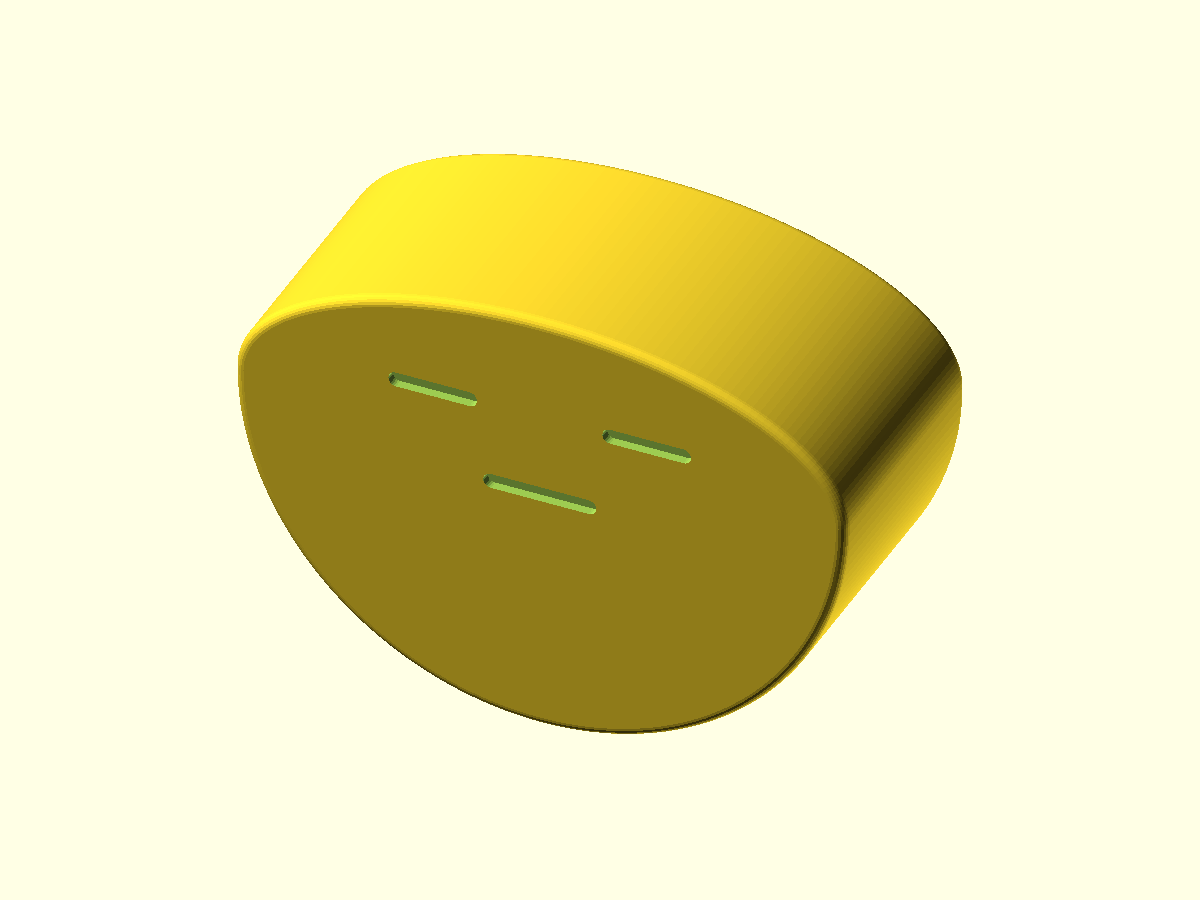
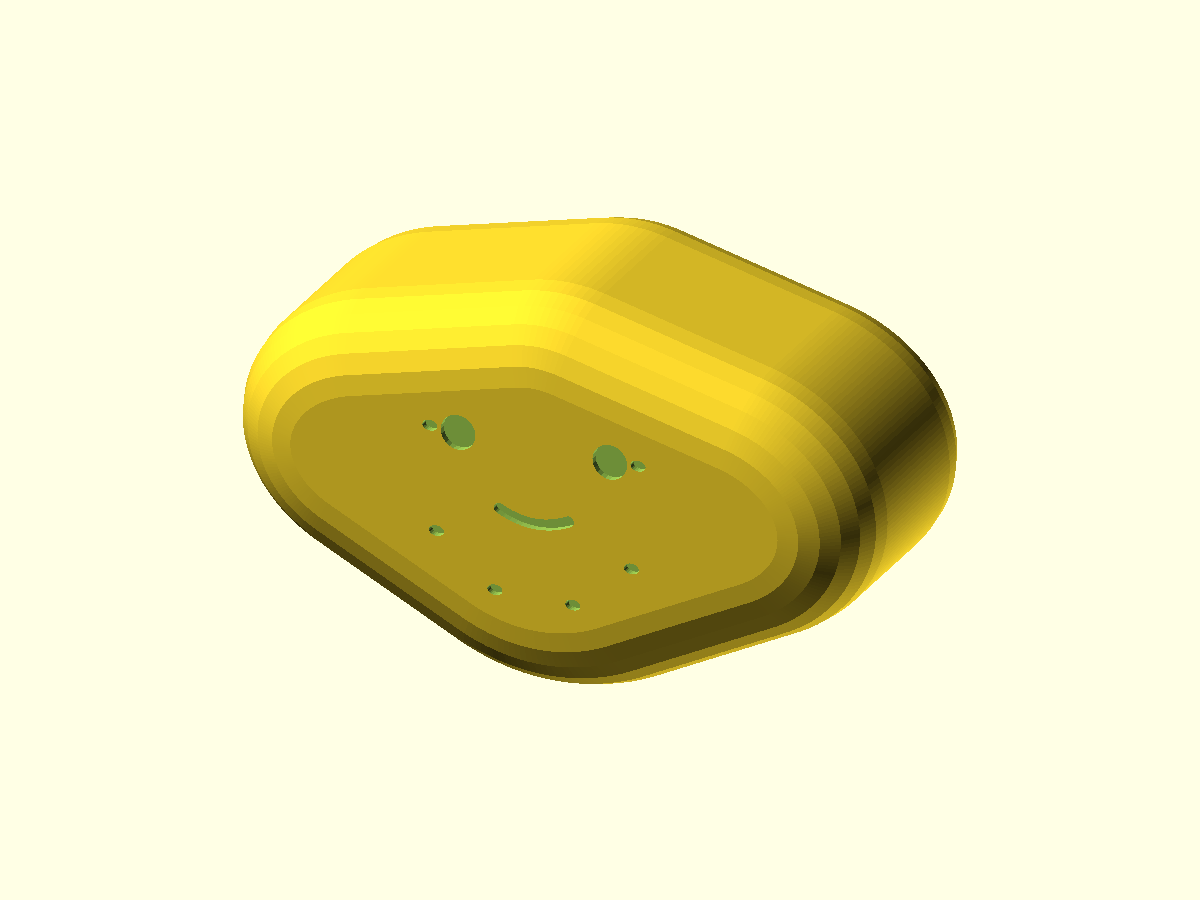
fix: give the wobble potato a fuller oval shape

Changed region(s): [[0.185, 0.1556, 0.8017, 0.84]]

diff --git a/projects/wobble-potato/README.md b/projects/wobble-potato/README.md
@@ -1,25 +1,26 @@
 # Wobble potato
 
-A squat, unimpressed potato that aims to rock in one plane after a gentle nudge. One rigid print, no ballast or moving joints. Default dimensions are approximately 52 × 38 × 22 mm. These are prototype assumptions, not a measured fit or proven balance recipe.
+An oval potato character that aims to rock in one plane after a gentle nudge. One rigid print, no ballast or moving joints. Default dimensions are approximately 76.4 × 47 × 34 mm. These are prototype assumptions, not a measured fit or proven balance recipe.
 
 ![OpenSCAD preview](preview.png)
 
 ## Source and exports
 
-`wobble-potato.scad` has a circular lower belly and a short half-elliptical cap. The cap width follows the belly diameter so their join stays tangent. Shallow recessed strokes form the eyes and mouth. Millimeter parameters are at the top.
+`wobble-potato.scad` has a central circular lower belly, a gently uneven cap and fuller oval shoulders. The shoulders widen the silhouette into a potato shape while leaving the central circular belly as the contact surface near upright. Round recessed eyes, a curved mouth and small skin dimples decorate the broad faces. Millimeter parameters are at the top.
 
 | Parameter | Default | Purpose |
 | --- | --- | --- |
 | `belly_radius` | 26 | Circular contact radius and half-width |
-| `cap_height` | 12 | Height above the arc center, less than the belly radius |
-| `body_width` | 22 | Width perpendicular to rocking |
-| `edge_round` | 0.8 | Approximate broad-face edge fillet; zero leaves square edges |
+| `cap_height` | 20 | Central cap height before its small top variation |
+| `cap_lump` | 0.05 | Gentle cap variation; range 0–0.05 |
+| `body_width` | 34 | Width perpendicular to rocking |
+| `edge_round` | 9 | Approximate broad-face edge fillet; zero leaves square edges |
 | `face_depth` | 0.8 | Shallow recess depth; at least 2 mm of central core remains |
 | `face` | `"both"` | Both faces, top face only with `"front"`, or `"none"` |
 | `orientation` | `"print"` | Broad face on bed; `"upright"` is a desk-view export |
 | `contact_segments` | 192 | Profile resolution; integer ≥48, divisible by four |
 
-Face sizes and positions derive from the body dimensions. The fillet uses six quarter-circle sections; the central contact band retains the circular belly profile. Assertions check dimensions and selectors. They do not certify balance or printability on every printer.
+Face and shoulder dimensions derive from the body dimensions. The fillet uses six quarter-circle sections; the central contact band retains a circular belly arc through ±15° near upright. Assertions check dimensions, selectors, conservative face clearance and shoulder support at that angle. They do not certify balance or printability on every printer.
 
 From the repository root, with `openscad` on PATH:
 
@@ -36,13 +37,13 @@ On this Mac, the executable is `/Applications/OpenSCAD-2021.01.app/Contents/MacO
 
 Start with one complete `face="none"` balance prototype. PLA is a candidate for a cool indoor desk. Use 0.2 mm layers, four walls, and 100% infill as an initial attempt to approximate uniform mass. This is a proposed print recipe; inspect and record the actual toolpath and mass. Keep that recipe fixed when comparing the decorated print. No purchased hardware is needed and no mating fit tolerance applies.
 
-Lay a broad face on the bed, as the default export supplies it. Start with supports off after checking the toolpath. Both-face decoration has tiny recesses against the bed that bridge after the recess depth; verify those bridges or use `face="front"` to leave the bed face flat. Check elephant foot, adhesion, contact-band faceting and surface roughness. Keep seam placement off the center of the belly contact band when the slicer allows it. A rough contact band may stick or mark the desk.
+Lay a broad face on the bed, as the default export supplies it. Plan on supports under the deeply rounded lower edges and verify the toolpath before printing. Both-face decoration has tiny recesses against the bed that bridge after the recess depth; verify those bridges or use `face="front"` to leave the bed face flat. Front-only decoration removes the bed recesses, but the lower edge fillets still need a support check. Check elephant foot, adhesion, contact-band faceting and surface roughness. Keep seam placement off the center of the belly contact band when the slicer allows it. A rough contact band may stick or mark the desk.
 
-The ideal uniform, unrounded profile has its centroid about 5.94 mm below the contact-arc center at the defaults. OpenSCAD echoes this estimate. Rounding, facial recesses, shells and infill alter the actual mass distribution; the estimate only screens the starting geometry. A complete mesh mass calculation is also a uniform-solid model, not evidence about the sliced print. No recovery from arbitrary orientations is promised.
+The whole-mesh uniform-solid centroid must remain below the contact-arc center as an early geometry screen. The shoulder hull and edge rounding affect the whole-mesh mass distribution. OpenSCAD reports the protected circular-contact angle. Facial recesses, shells and infill alter the actual mass distribution. A complete mesh mass calculation is also a uniform-solid model, not evidence about the sliced print. No recovery from arbitrary orientations is promised.
 
 ## Physical checks
 
-Confirm the desired size, expression and one-plane motion. Record desk surface and slope, available space, printer/nozzle/material, layer/wall/infill settings and temperature. The 52 mm body width in the rocking plane needs room to move away from desk edges. Before printing, choose a modest release angle, acceptable final resting tilt and permitted drift. A starting trial could use a 10° release and a ±3° resting tolerance; these are proposed test settings, not achieved results.
+Confirm the desired size, expression and one-plane motion. Record desk surface and slope, available space, printer/nozzle/material, layer/wall/infill settings and temperature. The 76.4 mm body width in the rocking plane needs room to move away from desk edges. Before printing, choose a modest release angle, acceptable final resting tilt and permitted drift. A starting trial could use a 10° release and a ±3° resting tolerance; these are proposed test settings, not achieved results.
 
 1. Inspect the toolpath, print one full undecorated body, then measure its dimensions and mass. A thin arc coupon cannot validate full-body balance or sideways tipping.
 2. On a level surface, release it ten times from each side at the chosen angle. Require all ten per side to return within the chosen resting tolerance without falling onto a broad face. Record sticking, sliding and travel distance. Revise or stop if it fails.
@@ -50,4 +51,4 @@ Confirm the desired size, expression and one-plane motion. Record desk surface a
 4. Repeat fifty gentle nudges, inspect the contact band for wear, roughness or desk marks, and recheck motion at the recorded temperature.
 5. Try a short play session. Keep the design only if the motion and expression are enjoyable.
 
-Mesh/export checks establish geometric validity. Printed balance, acceptable recovery angle, desk wear and enjoyment remain unverified. There is no therapeutic or productivity claim. Earlier card-perch and seed-chute proposals are independent and remain unimplemented.
+Mesh/export checks establish geometric validity. Printed balance, acceptable recovery angle, desk wear and enjoyment remain unverified. There is no therapeutic or productivity claim.
